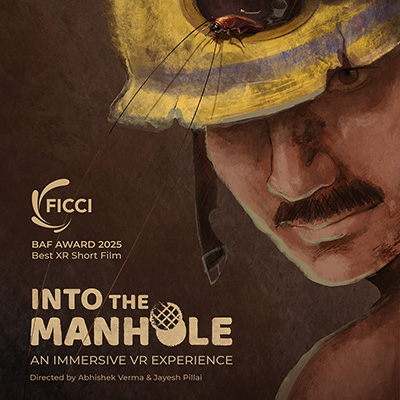
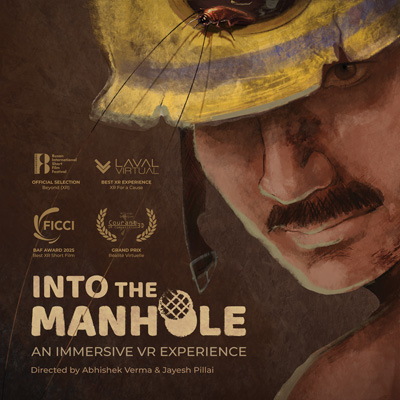
update ITM laurels

diff --git a/_projects/manhole2_itm.md b/_projects/manhole2_itm.md
@@ -46,6 +46,12 @@ gallery1:
 This is a 6 degrees-of-freedom (6DoF) VR narrative experience created using the Unreal game engine. This experience is part of a <a href="{{ site.url }}{{ site.baseurl }}/manhole-project" target="_blank" style="color:#cc9200;">larger project</a>  that aims to spread awareness about the dangers of manual scavenging in India. The production of the film was supported by IRCC, IIT Bombay.
 
 <br>
+
+<figure class="align-center" style="width:100%;">
+  <img src="{{ site.url }}{{ site.baseurl }}/assets/img/projects/manholeproject/ITM_img/ITM_Laurels.png" alt="ITM_Laurels">
+</figure> 
+
+<br>
 {% include video id="-4-xjF6OTHM" provider="youtube" %}
 <figcaption>Into the Manhole - Trailer</figcaption>
 
